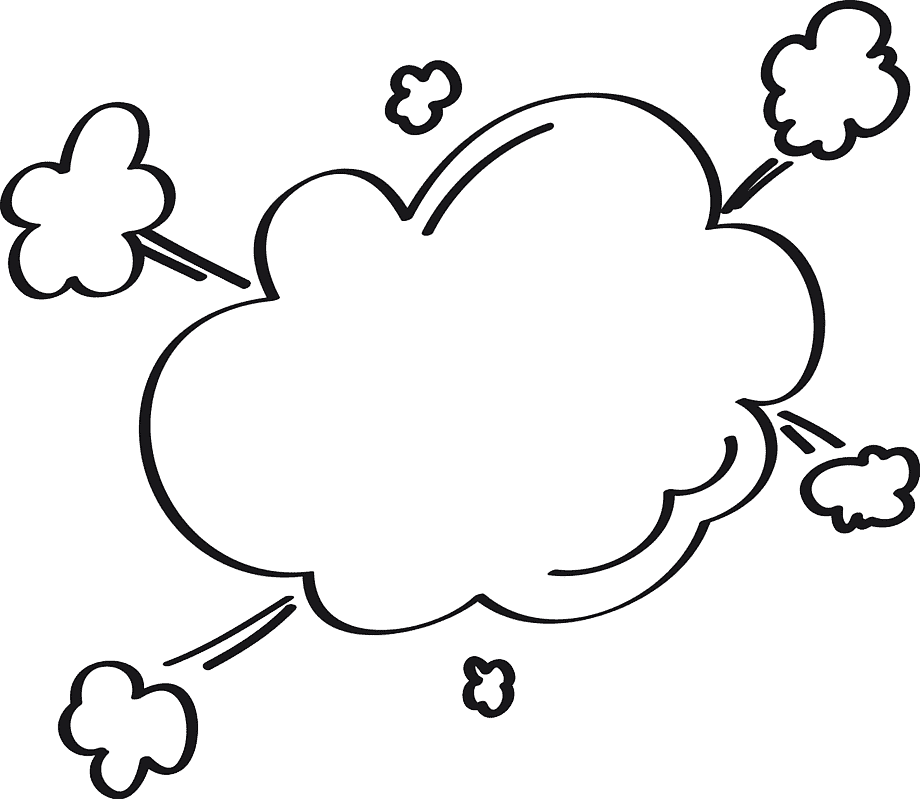
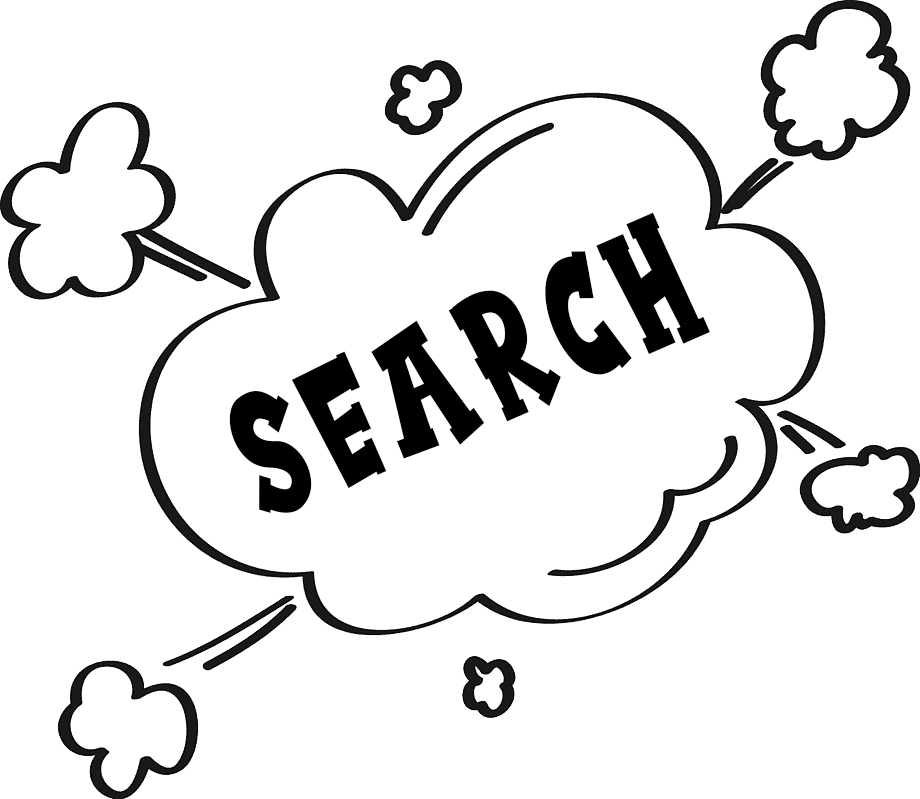
updating file paths

Changed region(s): [[0.2435, 0.2703, 0.7913, 0.6608]]

diff --git a/main.html b/main.html
@@ -1,0 +1,101 @@
+<!DOCTYPE html>
+<html lang="en">
+  <head>
+    <meta http-equiv="Content-Type" content="text/html; charset=UTF-8" />
+    <meta name="viewport" content="width=device-width, initial-scale=1" />
+    <title>Laughing Saves the Day!</title>
+
+    <!-- CSS  -->
+    <link href="https://fonts.googleapis.com/icon?family=Material+Icons" rel="stylesheet">
+    <link href="css/materialize.css" type="text/css" rel="stylesheet" media="screen,projection">
+    <link href="css/style.css" type="text/css" rel="stylesheet" media="screen,projection">
+    <link href="css/custom-styles.css" type="text/css" rel="stylesheet" media="screen,projection">
+    <script src="https://cdnjs.cloudflare.com/ajax/libs/jquery/3.2.1/jquery.min.js"></script>
+
+    <script src="script2.js"></script>
+  </head>
+  <body>
+    <div class="no-pad-bot">
+      <div id="jokerBG" class="container">
+        <div class="row" style="display:flex;">
+          <form id="input-form" class="">
+            <div id="form" class="center">
+              <div><img id="meme-Search" src="css/cloud.png" /></div>
+              <div>
+                <input type="text" id="meme-input" placeholder="Enter a Subreddit Here" value="">
+              </div>
+            </div>
+          </form>
+        </div>
+        <div id="mediaAdjust" class="margin-edit row">
+          <div class="center-img">
+            <a class="parent col s4"><img id="impactpg-main" src="impactbg.png"></a>
+          </div>
+          <div id="speechbubble" class="col s6">
+            <div class="row center">
+              <h2 id="setup" class="header col s12 light speechbubble"></h2>
+              <h3 id="punchline" class="speechbubble"></h3>
+            </div>
+            <div id="nextJoke" class="row center">
+              <button id="jokeButton" class="btn-large waves-effect waves-light teal lighten-1">Punchline</button>
+            </div>
+          </div>
+          <div class="col s2"></div>
+        </div>
+      </div>
+      <div class="parallax joker">
+        <!-- <img
+          src="images/joker-bkgd-funny.jpg"
+          alt="Unsplashed background img 1"
+        /> -->
+      </div>
+    </div>
+
+    <div id="main-body" class="container comicbg">
+      <div class="masonry hover_img">
+
+        <div id="img0" class="icon-block item"><!-- MEME GOES HERE --></div>
+
+        <div id="img1" class="icon-block item"><!-- MEME GOES HERE --></div>
+
+        <div id="img2" class="icon-block item"><!-- MEME GOES HERE --></div>
+
+        <div id="img3" class="icon-block item"><!-- MEME GOES HERE --></div>
+
+        <div id="img4" class="icon-block item"><!-- MEME GOES HERE --></div>
+
+        <div id="img5" class="icon-block item"><!-- MEME GOES HERE --></div>
+
+        <div id="img6" class="icon-block item"><!-- MEME GOES HERE --></div>
+
+        <div id="img7" class="icon-block item"><!-- MEME GOES HERE --></div>
+
+        <div id="img8" class="icon-block item"><!-- MEME GOES HERE --></div>
+
+        <div id="img9" class="icon-block item"><!-- MEME GOES HERE --></div>
+
+        <div id="img10" class="icon-block item"><!-- MEME GOES HERE --></div>
+
+        <div id="img11" class="icon-block item"><!-- MEME GOES HERE --></div>
+
+      </div>
+    </div>
+
+    <footer class="page-footer teal">
+    <div class="container">
+      <div class="row margin-edit">
+        <div class="col s12 center">
+          <h5 class="white-text">Laughing Saves the Day!</h5>
+          <p class="grey-text text-lighten-4">Project #1 by Shane Webber, Larry Gamboa and David Hawley.</p>
+        </div>
+      </div>
+    </div>
+  </footer>
+
+    <!--  Scripts-->
+    <script></script>
+    <script src="https://code.jquery.com/jquery-2.1.1.min.js"></script>
+    <script src="js/materialize.js"></script>
+    <script src="js/init.js"></script>
+  </body>
+</html>

diff --git a/materialize-html-css/js/script2.js b/materialize-html-css/js/script2.js
@@ -1,20 +1,41 @@
 $(document).ready(function () {
   function displayMeme() {
-    var queryURL = "https://meme-api.herokuapp.com/gimme/dankmemes/7";
-    console.log(queryURL)
+    var getMemeInput = localStorage.getItem("memeInput");
+    console.log(getMemeInput);
 
-    $.ajax({
-      url: queryURL,
-      method: "GET",
-    }).then(function (response) {
-      for(i=0; i<7; i++){
-      var currentMeme = response.memes[i].url
-      console.log(currentMeme);
+    if (getMemeInput === null) {
+      var queryURL = "https://meme-api.herokuapp.com/gimme/dankmemes/12";
 
-      $("#img"+i).append("<img src=" + currentMeme + ">");}
-    });
+      $.ajax({
+        url: queryURL,
+        method: "GET",
+      }).then(function (response) {
+        for (i = 0; i < 12; i++) {
+          var currentMeme = response.memes[i].url;
+          console.log(currentMeme);
+
+          $("#img" + i).html("<img src=" + currentMeme + ">");
+        }
+      });
+    } else {
+      var queryURL =
+        "https://meme-api.herokuapp.com/gimme/" + getMemeInput + "/12";
+      console.log(queryURL);
+
+      $.ajax({
+        url: queryURL,
+        method: "GET",
+      }).then(function (response) {
+        for (i = 0; i < 12; i++) {
+          var currentMeme = response.memes[i].url;
+          console.log(currentMeme);
+
+          $("#img" + i).html("<img src=" + currentMeme + ">");
+        }
+      });
+    }
   }
-  
+
   function displayJoke() {
     var jokeURL = "https://official-joke-api.appspot.com/random_joke";
 
@@ -29,25 +50,67 @@ $(document).ready(function () {
 
       console.log(response.punchline);
 
-        $("#jokeButton").on("click", function (event) {
-    var joke = "whatever";
-    console.log(joke);
-    event.preventDefault();
-    $("#setup").html(response.punchline);
-    console.log(response.punchline);
-  });
+      $("#jokeButton").on("click", function (event) {
+        var joke = "whatever";
+        console.log(joke);
+        event.preventDefault();
+        $("#setup").html(response.punchline);
+        $("#nextJoke").html(
+          '<button id="nextBtn" class="btn-large waves-effect waves-light teal lighten-1">Next Joke</button>'
+        );
+        $("#nextBtn").on("click", function (event) {
+          displayMeme();
+          $("#setup").html("");
+          $("#nextJoke").html(
+            '<button id="jokeButton" class="btn-large waves-effect waves-light teal lighten-1">Punchline</button>'
+          );
+          displayJoke();
+        });
+      });
     });
   }
 
-
   displayMeme();
   displayJoke();
+  $("#meme-Search").on("click", function (event) {
+    event.preventDefault();
+    var memeinuput = $("#meme-input").val();
+    memeinuput = memeinuput.replace(/\s/g, "");
+    localStorage.setItem("memeInput", memeinuput);
+    console.log($("#meme-input").val());
+    function displayMeme2() {
+      var queryURL = `https://meme-api.herokuapp.com/gimme/${memeinuput}/12`;
+      console.log(queryURL);
+      console.log(memeinuput);
+      $.ajax({
+        url: queryURL,
+        method: "GET",
+      }).then(function (response) {
+        for (i = 0; i < 12; i++) {
+          var currentMeme = response.memes[i].url;
+          console.log(currentMeme);
+
+          $("#img" + i).html("<img src=" + currentMeme + ">");
+        }
+      });
+    }
+    displayMeme2();
+  });
+
+  $("#impactpg").on("click", function () {
+    window.location.href = "index2.html";
+    console.log("test Test");
+  });
 });
 
-$("#impactpg").on("click", function (){
-  
-  window.location.href="index2.html"
-  console.log("test Test")
-
-})
-
+$(document).ready(function () {
+  $(window).resize(function () {
+    if ($(window).width() < 769) {
+      $("#mediaAdjust").removeClass("row");
+    }
+    else {
+      $("#mediaAdjust").addClass("row");
+    }
+  });
+  resize();
+});

diff --git a/Index.html b/Index.html
@@ -1,0 +1,29 @@
+<!DOCTYPE html>
+<html lang="en">
+  <head>
+    <meta http-equiv="Content-Type" content="text/html; charset=UTF-8" />
+    <meta name="viewport" content="width=device-width, initial-scale=1" />
+    <title>Laughing Saves the Day!</title>
+
+    <!-- CSS  -->
+    <link href="https://fonts.googleapis.com/icon?family=Material+Icons" rel="stylesheet">
+    <link href="css/materialize.css" type="text/css" rel="stylesheet" media="screen,projection">
+    <link href="css/style.css" type="text/css" rel="stylesheet" media="screen,projection">
+    <link href="css/custom-styles.css" type="text/css" rel="stylesheet" media="screen,projection">
+    <script src="https://cdnjs.cloudflare.com/ajax/libs/jquery/3.2.1/jquery.min.js"></script>
+
+    <script src="script2.js"></script>
+  </head>
+  <body id="backgroundimg">
+    <div>
+      <div id="landingDiv" class="parent">
+        <a href="main.html">
+          <img id="impactpg" src="impactbg.png" />
+        </a>
+      </div>
+    </div>
+    <video autoplay muted loop id="myVideo">
+      <source src="vlc-record-2020-11-10-17h05m31s-Marvel Studios - IntroLogo New Version (2016) HD 1080p 60fps.mp4-.mp4" type="video/mp4">
+    </video>
+  </body>
+</html>
